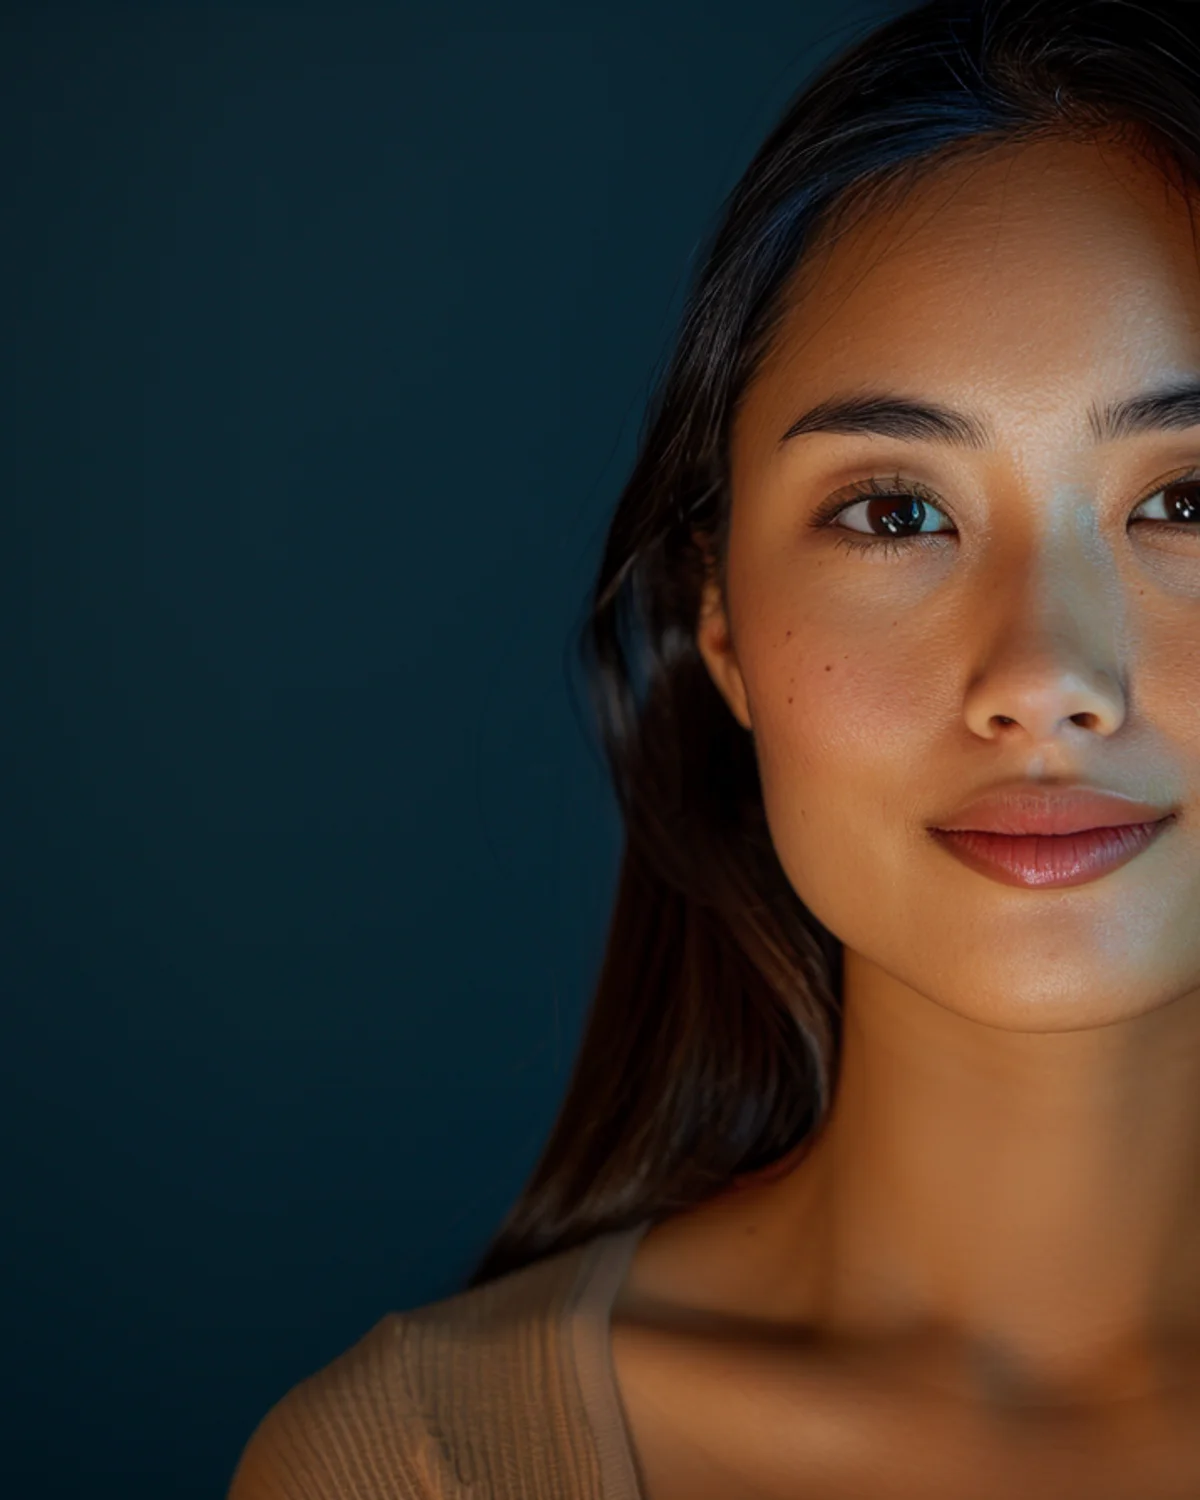
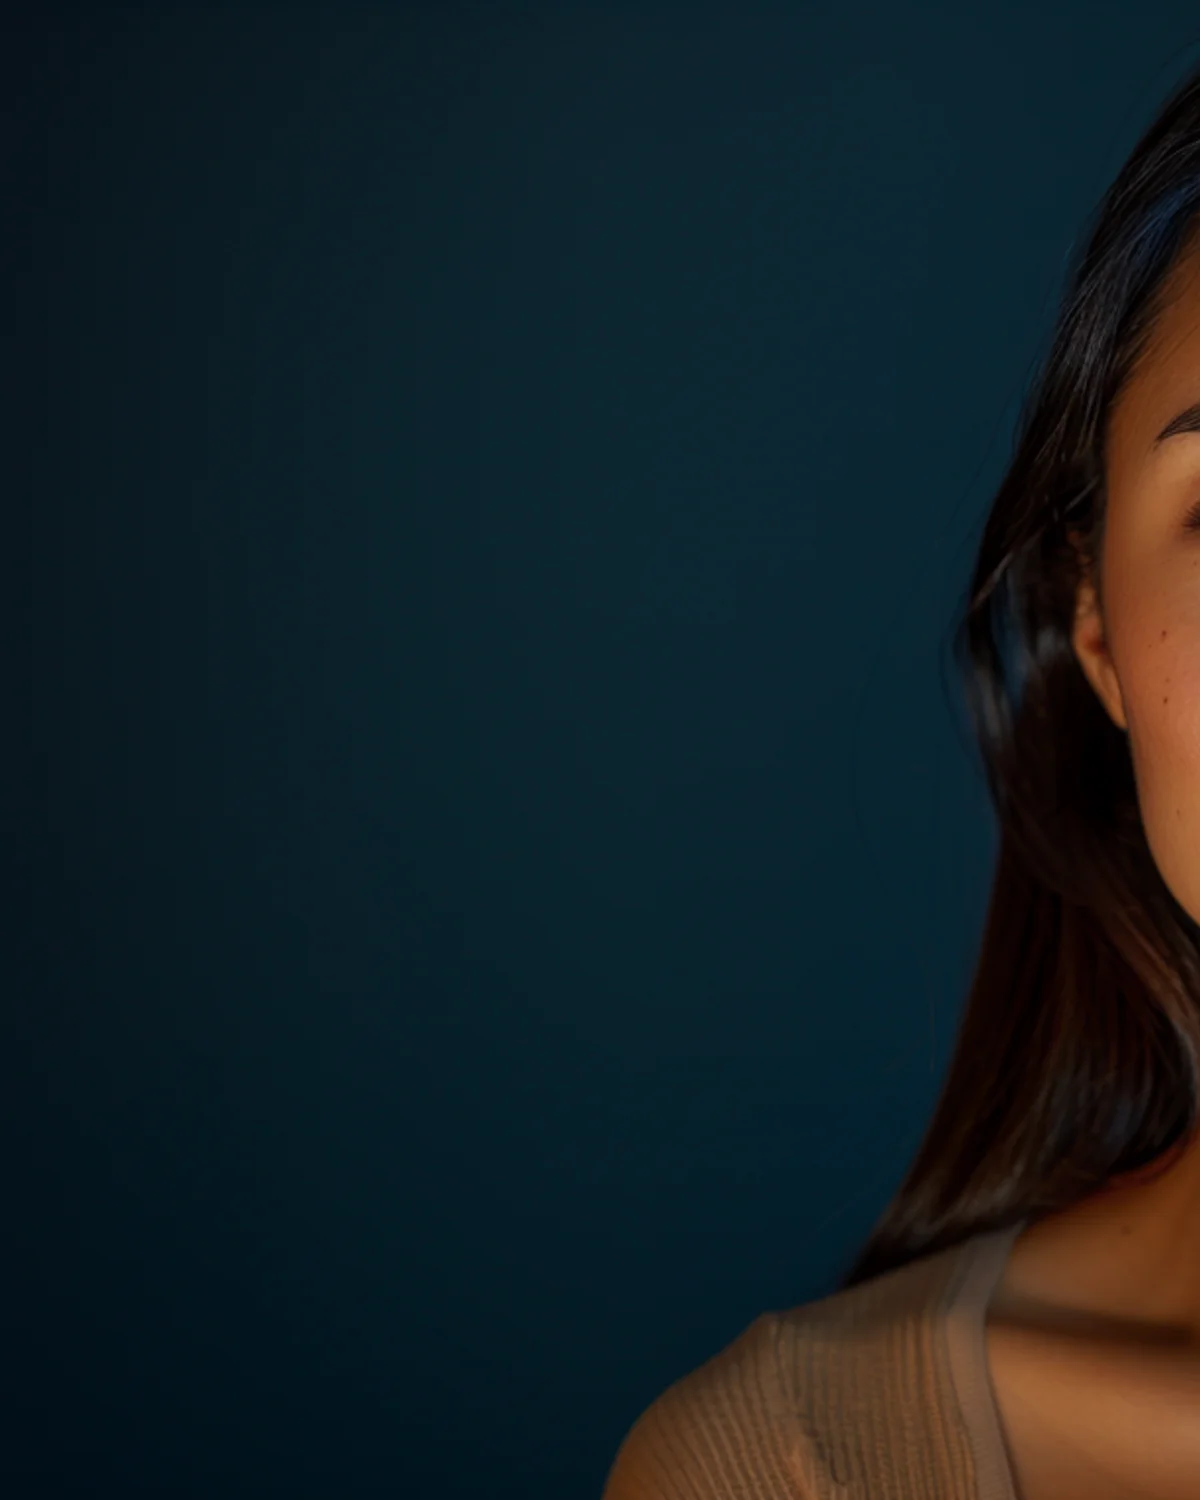
feat: Replace with centered v3 portraits
New Midjourney portraits v3:
- Both centered, professional studio shots
- Dark teal backgrounds match brand
- Direct eye contact, approachable expressions
- No positioning tweaks needed (center + cover works perfectly)

Files:
- assets/source/ate-maria-master-v3.png
- assets/source/kuya-josh-master-v3.png
- public/avatars/ate-maria-portrait.webp (replaced)
- public/avatars/kuya-josh-portrait.webp (replaced)

Dashboard: Using center positioning, cover size
Result: Clean, professional, aligned portraits

diff --git a/app/dashboard/page.tsx b/app/dashboard/page.tsx
@@ -54,13 +54,13 @@ export default function DashboardPage() {
             onClick={() => handlePersonaSelect('ate_maria')}
             className="w-full text-left rounded-2xl overflow-hidden relative h-[145px] group hover:scale-[1.02] transition-transform"
           >
-            {/* Background Image - positioned to show eyes clearly */}
+            {/* Background Image - centered portrait */}
             <div 
               className="absolute inset-0"
               style={{
                 backgroundImage: 'url(/avatars/ate-maria-portrait.webp)',
-                backgroundPosition: '55% 40%',
-                backgroundSize: 'contain',
+                backgroundPosition: 'center',
+                backgroundSize: 'cover',
                 backgroundRepeat: 'no-repeat'
               }}
             />
@@ -92,13 +92,13 @@ export default function DashboardPage() {
             onClick={() => handlePersonaSelect('kuya_josh')}
             className="w-full text-left rounded-2xl overflow-hidden relative h-[145px] group hover:scale-[1.02] transition-transform"
           >
-            {/* Background Image - positioned to show eyes clearly */}
+            {/* Background Image - centered portrait */}
             <div 
               className="absolute inset-0"
               style={{
                 backgroundImage: 'url(/avatars/kuya-josh-portrait.webp)',
-                backgroundPosition: '60% 40%',
-                backgroundSize: 'contain',
+                backgroundPosition: 'center',
+                backgroundSize: 'cover',
                 backgroundRepeat: 'no-repeat'
               }}
             />

diff --git a/scripts/process-v3-portraits.js b/scripts/process-v3-portraits.js
@@ -1,0 +1,23 @@
+const sharp = require('sharp');
+const path = require('path');
+
+async function processPortraits() {
+  const sourceDir = path.join(__dirname, '..', 'assets', 'source');
+  const outputDir = path.join(__dirname, '..', 'public', 'avatars');
+
+  // Ate Maria v3
+  await sharp(path.join(sourceDir, 'ate-maria-master-v3.png'))
+    .resize(1200, 1500, { fit: 'cover', position: 'center' })
+    .webp({ quality: 85 })
+    .toFile(path.join(outputDir, 'ate-maria-portrait.webp'));
+
+  // Kuya Josh v3
+  await sharp(path.join(sourceDir, 'kuya-josh-master-v3.png'))
+    .resize(1200, 1500, { fit: 'cover', position: 'center' })
+    .webp({ quality: 85 })
+    .toFile(path.join(outputDir, 'kuya-josh-portrait.webp'));
+
+  console.log('✅ V3 Portraits processed successfully');
+}
+
+processPortraits().catch(console.error);
